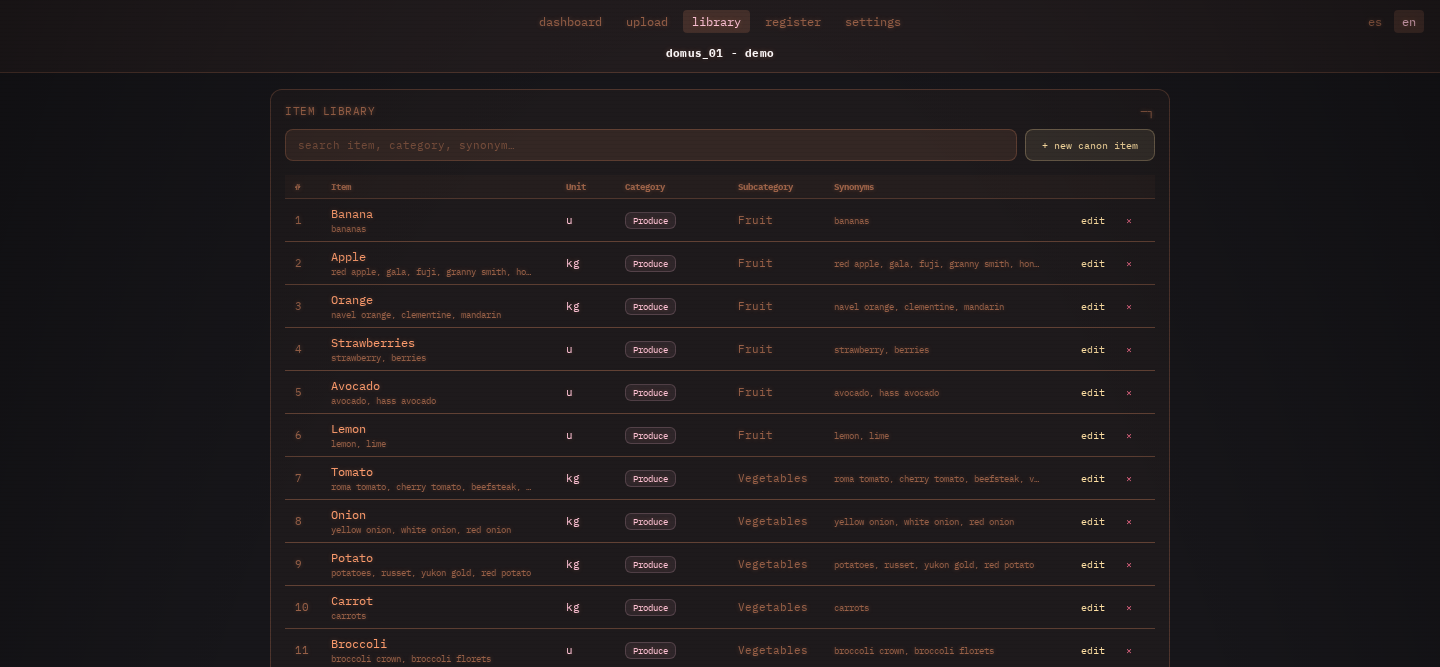
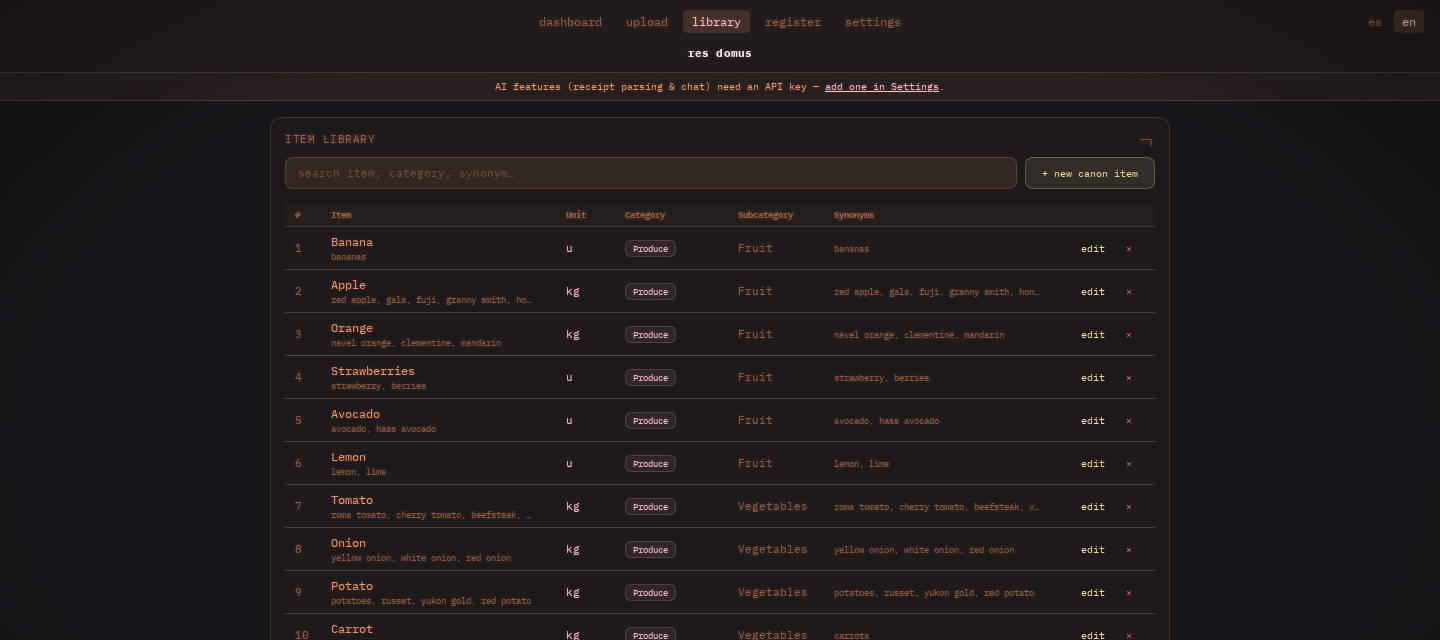
Point demo-mode chat users to the repo, fix inconsistent README screenshots
Demo-mode chat canned response now tells the visitor where to get the app
instead of just saying no.

Register/library/upload screenshots were cropped inconsistently (upload
was a small tight crop shown at 60% width, the other two full-width) -
retook all three at the same viewport and crop so they render at a
uniform size, and added separators between them in the README.

Also fixes a day-of-month-dependent test bug found while regenerating
screenshots: test_anomaly_tier_triggers_within_last_7_days_when_higher_tiers_quiet
seeded no manual budget, so its $1000 anomaly outlier could land in the
current calendar month (whenever the suite runs past day 6) and leak into
v_budget's avg_baseline fallback, pushing pct_of_budget over 80% and
letting the budget tier mask the anomaly tier the test meant to isolate.
Pinned a large quiet manual budget, matching the sibling test that already
does this.

diff --git a/app/tests/test_chat_notice.py b/app/tests/test_chat_notice.py
@@ -141,6 +141,14 @@ def test_stock_tier_does_not_trigger_at_4_days(client, auth_headers, empty_db):
 
 def test_anomaly_tier_triggers_within_last_7_days_when_higher_tiers_quiet(client, auth_headers, empty_db):
     conn = sqlite3.connect(empty_db)
+    # _seed_anomaly's $1000 outlier, dated 6 days ago, lands inside the
+    # *current calendar month* whenever this suite happens to run on
+    # day-of-month > 6 - with no manual budget row, that $1000 would leak
+    # into v_budget's avg_baseline fallback and could push pct_of_budget
+    # over 80%, making the budget tier fire first and mask the anomaly tier
+    # this test isolates. Pin a large, quiet manual budget so the outlier
+    # can never do that, regardless of which day the suite runs on.
+    _seed_budget(conn, pct=0, manual_budget=1_000_000.0)
     _seed_anomaly(conn, "anomaly_item", days_ago=6)
     conn.commit()
     conn.close()

diff --git a/app/api/chat.py b/app/api/chat.py
@@ -477,11 +477,13 @@ def chat_notice():
     return jsonify({"notice": notice})
 
 
-# Placeholder — swap for real copy before publishing. Kept in both languages
-# so the response shape matches a normal answer regardless of UI language.
+RES_DOMUS_REPO_URL = "https://github.com/aitor1717/res_domus"
+
+# Kept in both languages so the response shape matches a normal answer
+# regardless of UI language.
 DEMO_CHAT_MSG = {
-    "en": "The warehouse manager isn't available in demo mode.",
-    "es": "El gestor de almacén no está disponible en modo demo.",
+    "en": f"The warehouse manager is not available in demo mode. Download the app for free at {RES_DOMUS_REPO_URL}.",
+    "es": f"El gestor de almacén no está disponible en modo demo. La aplicación se puede descargar gratis en {RES_DOMUS_REPO_URL}.",
 }
 
 

diff --git a/README.md b/README.md
@@ -40,11 +40,13 @@ machine. The AI features are optional.
 
 ![register](docs/screenshots/register.png)
 
+---
+
 ![item library](docs/screenshots/library.png)
 
-<p align="center">
-  <img src="docs/screenshots/upload.png" width="60%" alt="upload receipt" />
-</p>
+---
+
+![upload receipt](docs/screenshots/upload.png)
 
 ## Quick start (Docker)
 
